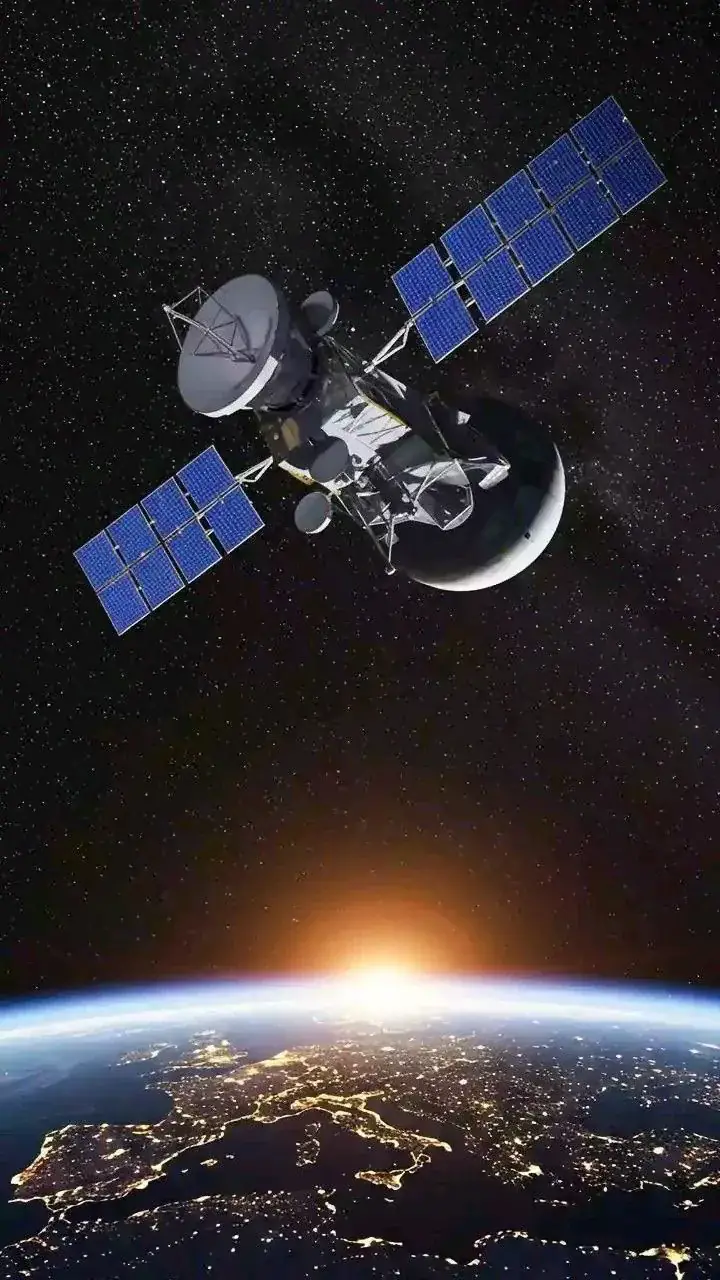
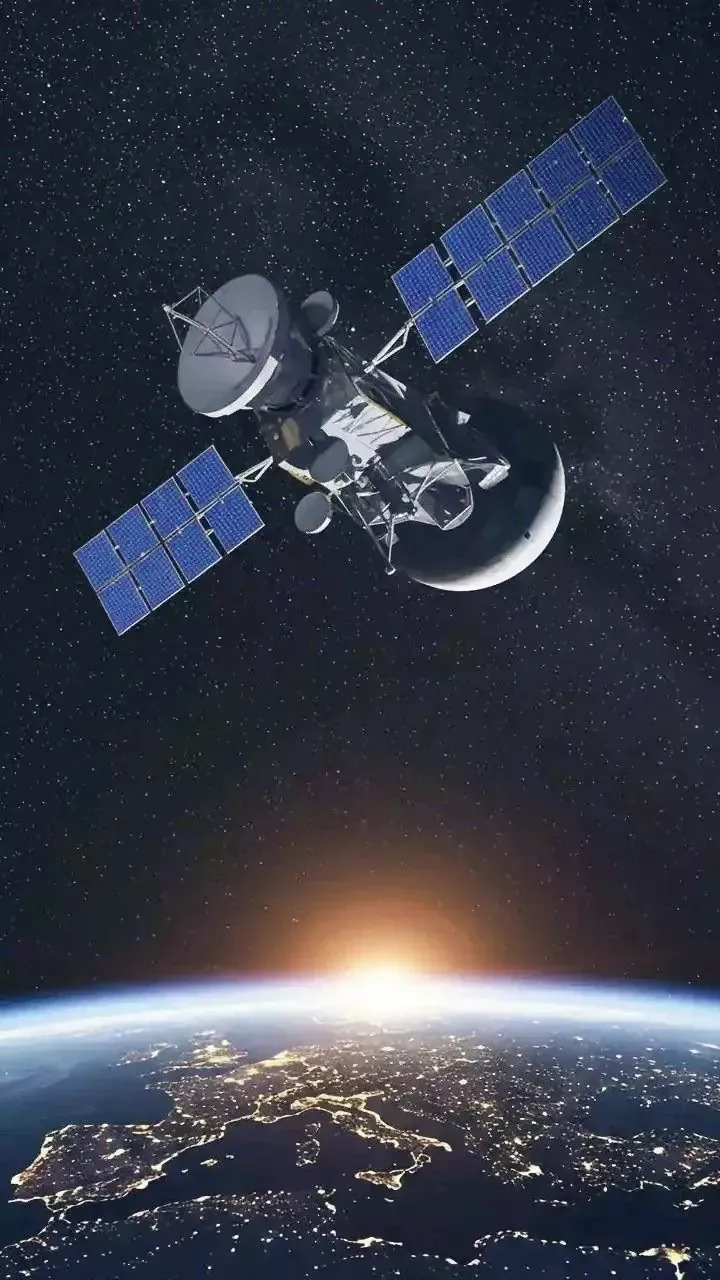
perf(web): bake the blend and filter of the parallax art into the images
Safari repaints mix-blend-mode and filter on every frame while the two
parallax layers move, which made the landing stutter there. The screen
blend over the page colour, the brightness and the saturation are now
in sky.webp and satellite.webp, so the layers only move. Masks and
opacity stay in CSS. Chrome screenshots before and after match.

diff --git a/web/src/features/landing/landing.css b/web/src/features/landing/landing.css
@@ -20,7 +20,8 @@
   transform: translateY(var(--parallax, 0px));
 }
 
-/* The whole photo, not a cut-out: `screen` turns its near-black sky into the page colour, and the masks soften the edges. */
+/* The whole photo, not a cut-out. Its brightness and a `screen` blend over the page colour are baked into the file
+   (Safari repaints blend modes and filters on every scroll frame); the masks soften the edges. */
 .hero__art--right {
   right: 0;
   aspect-ratio: 2 / 3;
@@ -28,8 +29,6 @@
   background-image: url('./assets/sky.webp');
   background-size: cover;
   background-position: center;
-  mix-blend-mode: screen;
-  filter: brightness(1.6) saturate(1.15);
   mask-image: linear-gradient(90deg, transparent, #000 40%), linear-gradient(0deg, transparent, #000 22%);
   mask-composite: intersect;
   -webkit-mask-composite: source-in;
@@ -286,8 +285,7 @@
   aspect-ratio: 9 / 16;
   max-width: 70%;
   /* satellite at the top, the Earth at its sunrise at the bottom: the section goes from space to the ground */
-  mix-blend-mode: screen;
-  filter: saturate(0.85);
+  /* the `screen` blend over the page colour and the desaturation are baked into the file, see .hero__art--right */
   opacity: 0.75;
   pointer-events: none;
   will-change: transform;
